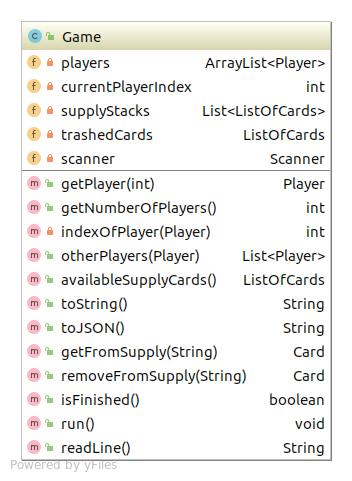
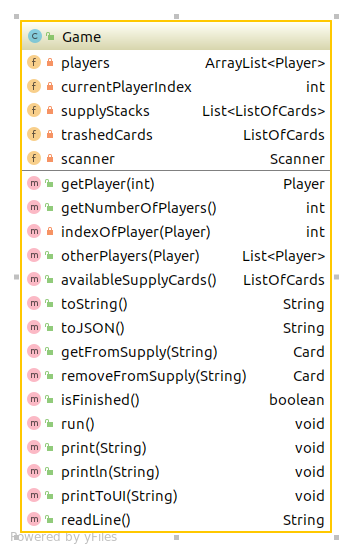
modification diagramme Game + typos

Changed region(s): [[0.0312, 0.0312, 0.9688, 0.9979]]

diff --git a/README.md b/README.md
@@ -24,7 +24,7 @@ _Dominion_ est un jeu de cartes inventé par Donald X. Vaccarino pour 2 à 4 jou
 
 Dans ce projet nous considérerons la [_Seconde Edition_](http://wiki.dominionstrategy.com/index.php/Second_Edition) du jeu où 6 cartes du jeu initial ont été remplacées par 7 autres cartes. Vous pouvez consulter les règles du jeu en ligne :
  * http://wiki.dominionstrategy.com/index.php/Gameplay - pour les règles de base
- * http://wiki.dominionstrategy.com/index.php/Second_Edition - es modifications mineures adaptées à notre version
+ * http://wiki.dominionstrategy.com/index.php/Second_Edition - les modifications mineures adaptées à notre version
 
 **Vous êtes encouragés à lire ces règles avant de poursuivre la lecture du sujet.**
 
@@ -164,7 +164,7 @@ Lorsqu'un joueur doit choisir parmi un ensemble de cartes (par exemple la carte 
 
 Pour indiquer qu'il souhaite _passer_ (par exemple parce qu'il ne souhaite pas jouer de carte _Action_, qu'il ne veut rien acheter en fin de tour ou encore s'il ne veut plus écarter de cartes après avoir joué une _Chapelle_), le joueur entrera la chaîne de caractères vide `""`.
 
-Enfin, lorsqu'il doit faire un choix parmi deux possibilités (par exemple choisir s'il veut défausser son deck après avoir joué un _Chancellier_, ou s'il veut défausser une carte _Action_ piochée après avoir joué une _Biliothèque_), il répondra à une question posée en entrant `"y"` pour oui et `"n"` pour non.
+Enfin, lorsqu'il doit faire un choix parmi deux possibilités (par exemple choisir s'il veut défausser son deck après avoir joué un _Chancellier_, ou s'il veut défausser une carte _Action_ piochée après avoir joué une _Bibliothèque_), il répondra à une question posée en entrant `"y"` pour oui et `"n"` pour non.
 
 Le code des méthodes qui gèrent les choix vous est donné dans la classe `Player` (`choose()`, `chooseOption(...)`, `chooseCard(...)` ) et vous n'aurez pas à le modifier. (_lorsque l'IHM vous sera fournie, il faudra tout de même remplacer quelques lignes de code de ces fonctions, et on vous dira par quoi le moment venu_)
 
@@ -172,7 +172,7 @@ Le code des méthodes qui gèrent les choix vous est donné dans la classe `Play
 
 L'intégralité du code source du projet doit résider dans le dépôt GitHub associé à votre équipe de projet. À priori vous n'avez qu'à compléter les fichiers `.java` qui vous ont été donnés.
 
-Toutes les méthodes qui lèvent une exception avec l'instruction `throw new RuntimeException("Not Implemented")` doivent être complétées selon les spécifications (en respectant les noms et les paramètres indiqués). Vous pouvez éventuellement ajouter des attributs et méthodes aux classes, lorsque cela vous semble nécessaire. **Sauf indication de la part des enseignants, il est interdit de de moifier : **
+Toutes les méthodes qui lèvent une exception avec l'instruction `throw new RuntimeException("Not Implemented")` doivent être complétées selon les spécifications (en respectant les noms et les paramètres indiqués). Vous pouvez éventuellement ajouter des attributs et méthodes aux classes, lorsque cela vous semble nécessaire. **Sauf indication de la part des enseignants, il est interdit de de moifier :**
 1. **les signatures des méthodes/attributs.**
 2. **le code des méthodes déjà écrites (celles qui n'ont pas de `throw new RuntimeException("Not Implemented")`)**
 
